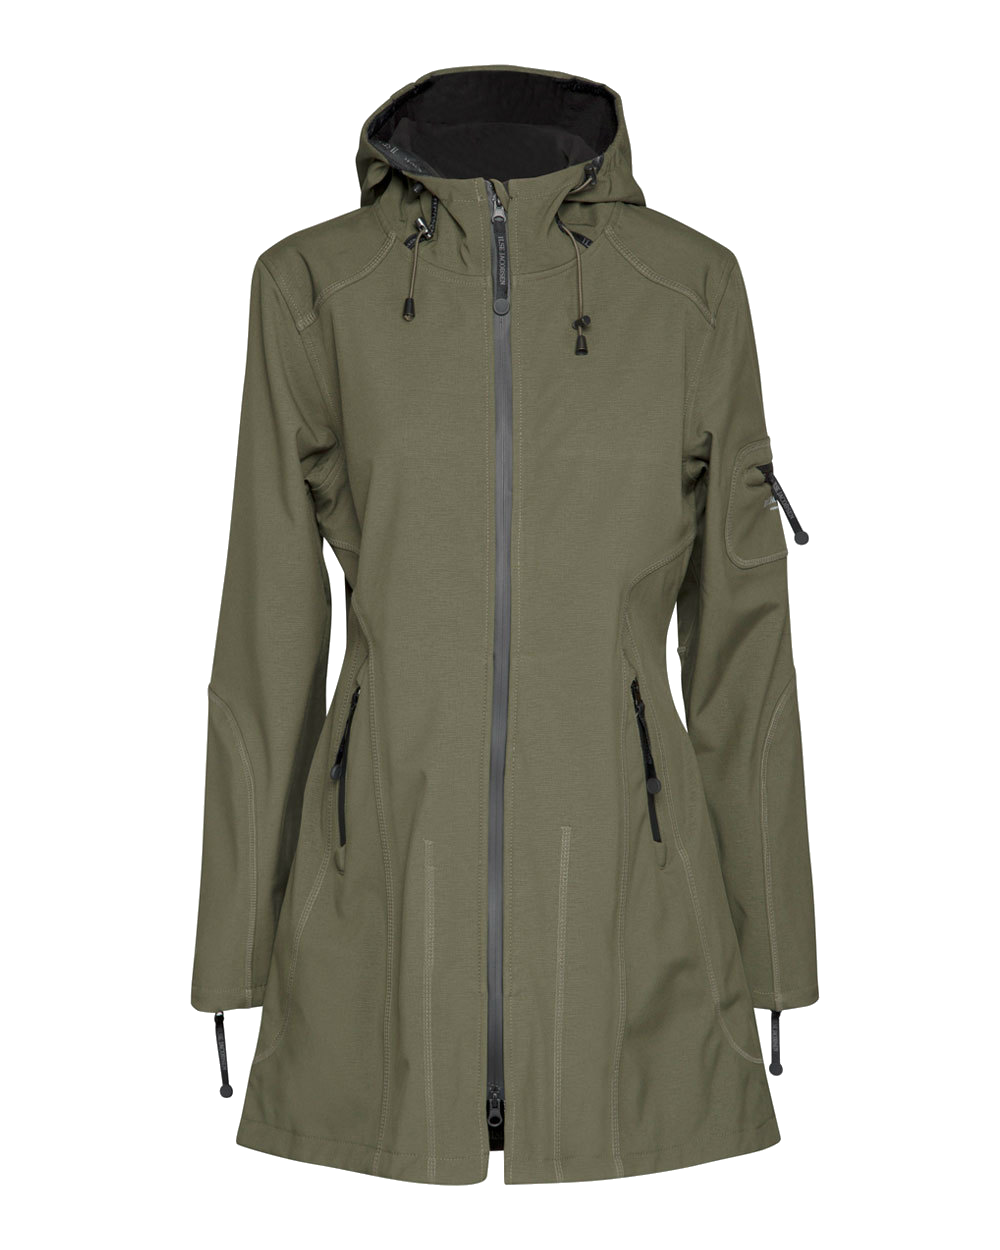
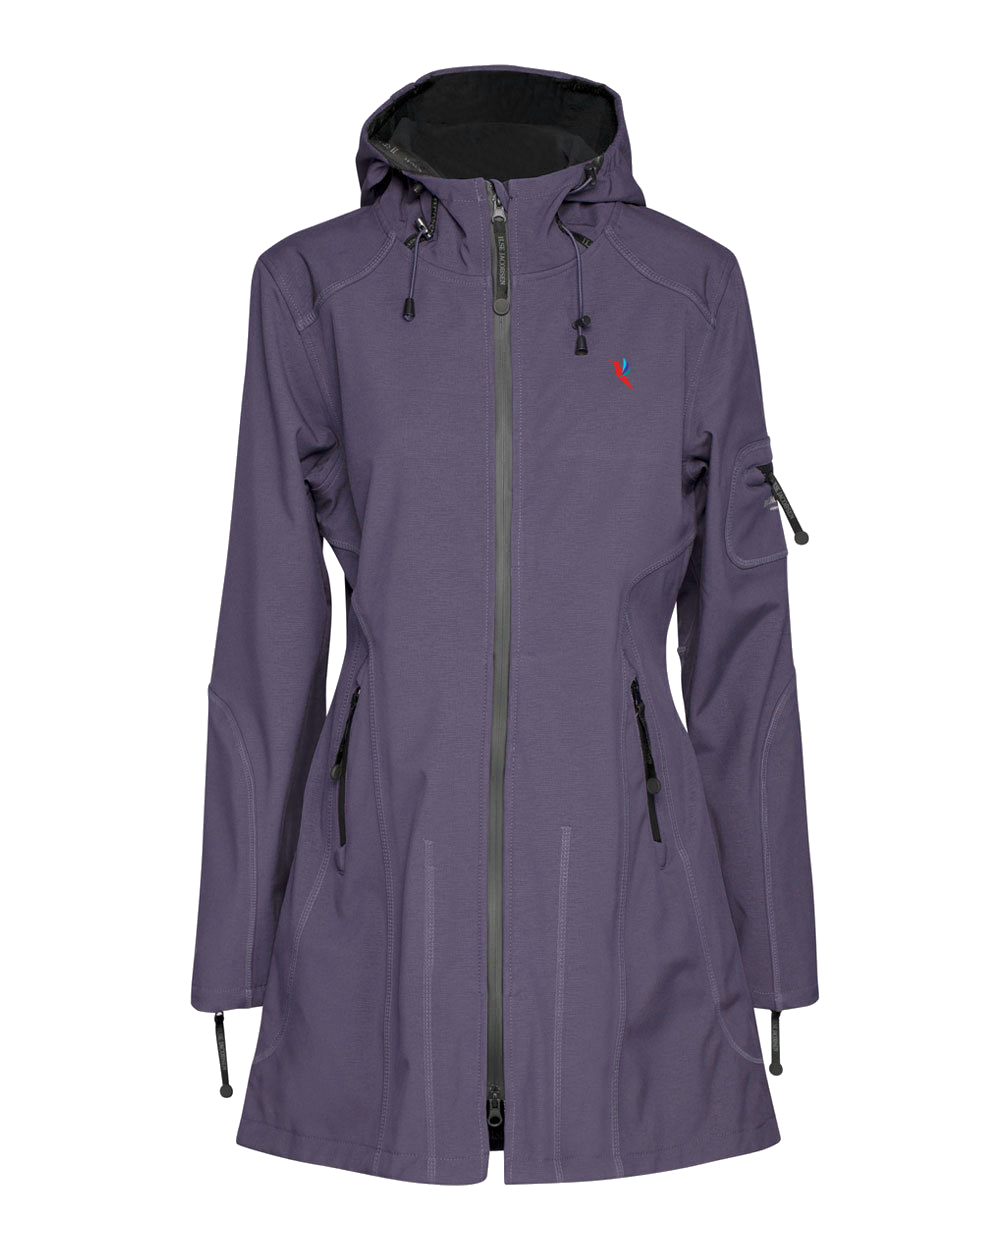
Added Second Rows of Products
Added pictures for the collections and doubled the inventory. Changed the color and added a logo to each of the images used. No CSS styling changes were done here but there need to have been.

diff --git a/products.html b/products.html
@@ -61,7 +61,7 @@
           <img src="images/rain/rain_1.png" width="324" height="318.33">
         </div>
         <div class="pinfo col-sm">
-          <h5 class="text-white">Trench Coat</h5>
+          <h5 class="text-white">Long Jacket</h5>
           <h6 class="text-white">$99.99</h6>
         </div id="add">
           <input type="submit" name="add" value="Add to cart" onclick="cart()">
@@ -88,8 +88,42 @@
       </div>
     </div>
 
+    <!-- second line -->
+    <div class="row products" id="rain">
+        <div class="pbox">
+          <div class="pimage col-sm">
+            <img src="images/rain/rain_3.png" width="324" height="318.33">
+          </div>
+          <div class="pinfo col-sm">
+            <h5 class="text-white">Trench Coat</h5>
+            <h6 class="text-white">$99.99</h6>
+          </div id="add">
+            <input type="submit" name="add" value="Add to cart" onclick="cart()">
+        </div>
+        <div class="pbox col-sm">
+          <div class="pimage col-sm">
+            <img src="images/rain/rain_8.png" width="324" height="318.33">
+          </div>
+          <div class="pinfo col-sm">
+            <h5 class="text-white">Rain Coat</h5>
+            <h6 class="text-white">$99.99</h6>
+          </div id="add">
+          <input type="submit" name="add" value="Add to cart" onclick="cart()">
+        </div>
+        <div class="pbox col-sm">
+          <div class="pimage col-sm">
+            <img src="images/rain/rain_5.png" width="324" height="318.33">
+          </div>
+          <div class="pinfo col-sm`">
+            <h5 class="text-white">Rain Coat</h5>
+            <h6 class="text-white">$99.99</h6>
+          </div id="add">
+          <input type="submit" name="add" value="Add to cart" onclick="cart()">
+        </div>
+      </div>
+
 <!-- SHINE -->
-    <section class=" row products" id="shine">
+    <section class="row products" id="shine">
         <div class="pbox col-sm">
           <div class="pimage col-sm">
             <img src="images/shine/shine_1.png" width="324" height="318.33">
@@ -120,7 +154,41 @@
           </div id="add">
           <input type="submit" name="add" value="Add to cart" onclick="cart()">
         </div>
+        <!-- second line -->
       </section>
+      <section class="row products" id="shine">
+          <div class="pbox col-sm">
+            <div class="pimage col-sm">
+              <img src="images/shine/shine_10.png" width="324" height="318.33">
+            </div>
+            <div class="pinfo col-sm">
+              <h5 class="text-white">Flip Flops</h5>
+              <h6 class="text-white">$99.99</h6>
+            </div id="add">
+            <input type="submit" name="add" value="Add to cart" onclick="cart()">
+          </div>
+          <div class="pbox col-sm">
+            <div class="pimage col-sm">
+              <img src="images/shine/shine_8.png" width="324" height="318.33">
+            </div>
+            <div class="pinfo col-sm">
+              <h5 class="text-white">Bikini Top</h5>
+              <h6 class="text-white">$99.99</h6>
+            </div id="add">
+            <input type="submit" name="add" value="Add to cart" onclick="cart()">
+          </div>
+          <div class="pbox col-sm">
+            <div class="pimage col-sm">
+              <img src="images/shine/shine_13.png" width="324" height="318.33">
+            </div>
+            <div class="pinfo col-sm">
+              <h5 class="text-white">Bikini Bottoms</h5>
+              <h6 class="text-white">$99.99</h6>
+            </div id="add">
+            <input type="submit" name="add" value="Add to cart" onclick="cart()">
+          </div>
+          <!-- second line -->
+        </section>
 
       <!-- SNOW -->
       <section class=" row products" id="snow">
@@ -155,6 +223,39 @@
             <input type="submit" name="add" value="Add to cart" onclick="cart()">
           </div>
         </section>
+        <!-- second line -->
+        <section class=" row products" id="snow">
+            <div class="pbox col-sm">
+              <div class="pimage col-sm">
+                <img src="images/snow/snow_6.png" width="324" height="318.33">
+              </div>
+              <div class="pinfo col-sm">
+                <h5 class="text-white">Light Jacket</h5>
+                <h6 class="text-white">$99.99</h6>
+              </div id="add">
+              <input type="submit" name="add" value="Add to cart" onclick="cart()">
+            </div>
+            <div class="pbox col-sm">
+              <div class="pimage col-sm">
+                <img src="images/snow/snow_4.png" width="324" height="318.33">
+              </div>
+              <div class="pinfo col-sm">
+                  <h5 class="text-white">Snow Jacket</h5>
+                <h6 class="text-white">$99.99</h6>
+              </div id="add">
+              <input type="submit" name="add" value="Add to cart" onclick="cart()">
+            </div>
+            <div class="pbox col-sm">
+              <div class="pimage col-sm">
+                <img src="images/snow/snow_1.png" width="324" height="318.33">
+              </div>
+              <div class="pinfo col-sm">
+                <h5 class="text-white">Light Winter Coat</h5>
+                <h6 class="text-white">$99.99</h6>
+              </div id="add">
+              <input type="submit" name="add" value="Add to cart" onclick="cart()">
+            </div>
+          </section>
        </div>
       </div>
       <div id="placeholder" class="text-white">
